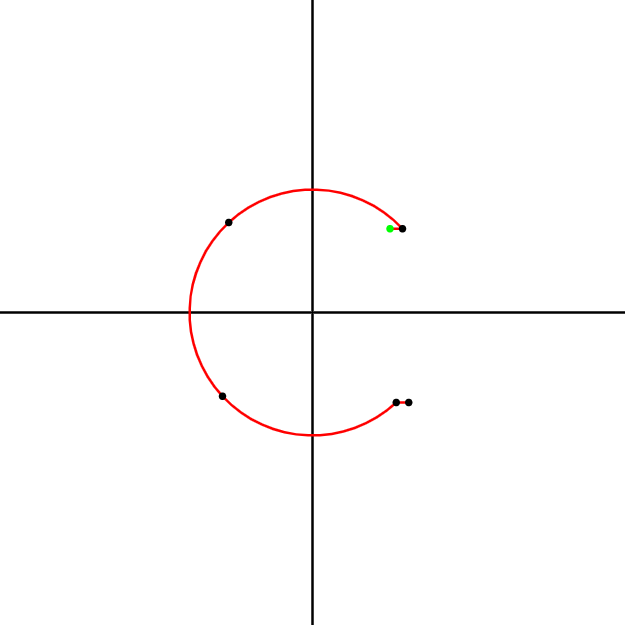
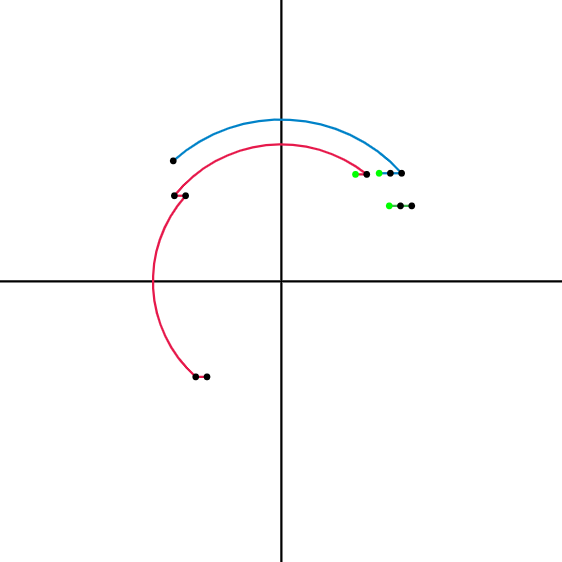
Add executions flag to the example.

diff --git a/src/render.cpp b/src/render.cpp
@@ -42,7 +42,6 @@ private:
     static constexpr RGB colors[] = {
         {230 / 255., 25 / 255., 75 / 255.},
         {60 / 255., 180 / 255., 75 / 255.},
-        {255 / 255., 225 / 255., 25 / 255.},
         {0 / 255., 130 / 255., 200 / 255.},
         {245 / 255., 130 / 255., 48 / 255.},
         {145 / 255., 30 / 255., 180 / 255.},
@@ -60,6 +59,7 @@ private:
         {128 / 255., 128 / 255., 0 / 255.},
         {255 / 255., 215 / 255., 180 / 255.},
         {0 / 255., 0 / 255., 128 / 255.},
+        {255 / 255., 225 / 255., 25 / 255.},
         {128 / 255., 128 / 255., 128 / 255.}
     };
 

diff --git a/README.md b/README.md
@@ -21,8 +21,8 @@ iter{
 }
 ```
 
-Running `./domains example.tr --svg` will output the SVG to the standard output
-that visualizes an execution trace of the program.
+Running `./domains example.tr --svg --executions 3` will output the SVG to the standard output
+that visualizes some execution traces of the program.
 An execution is defined as a random walk of the control flow graph.
 
 ## Output:
